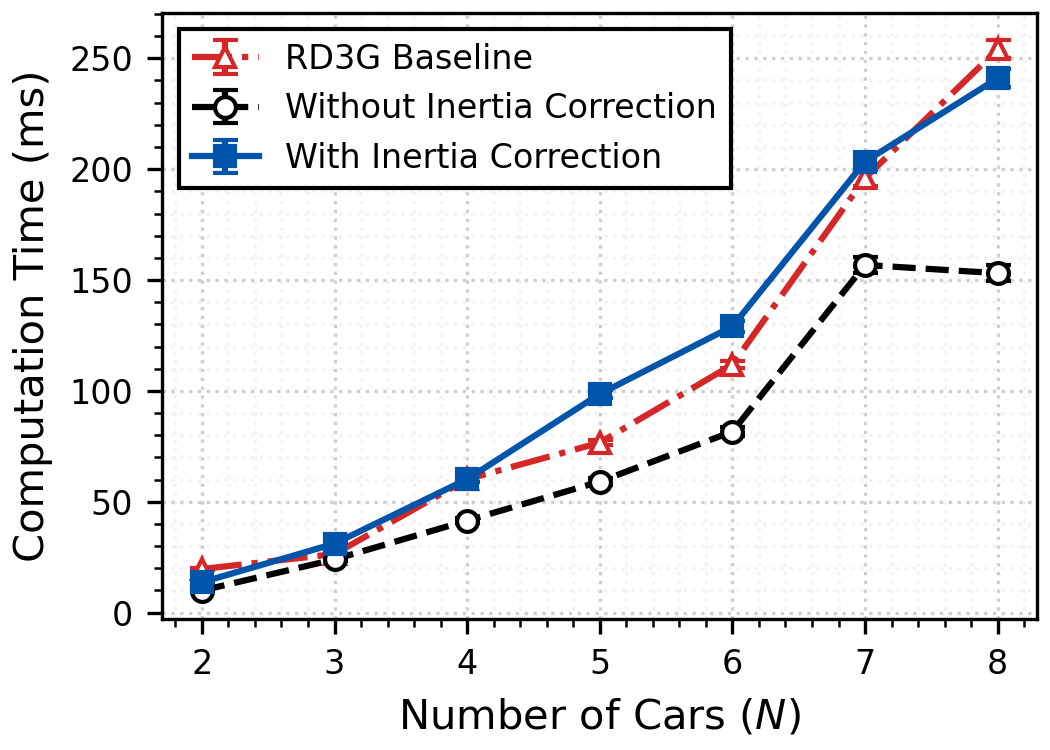
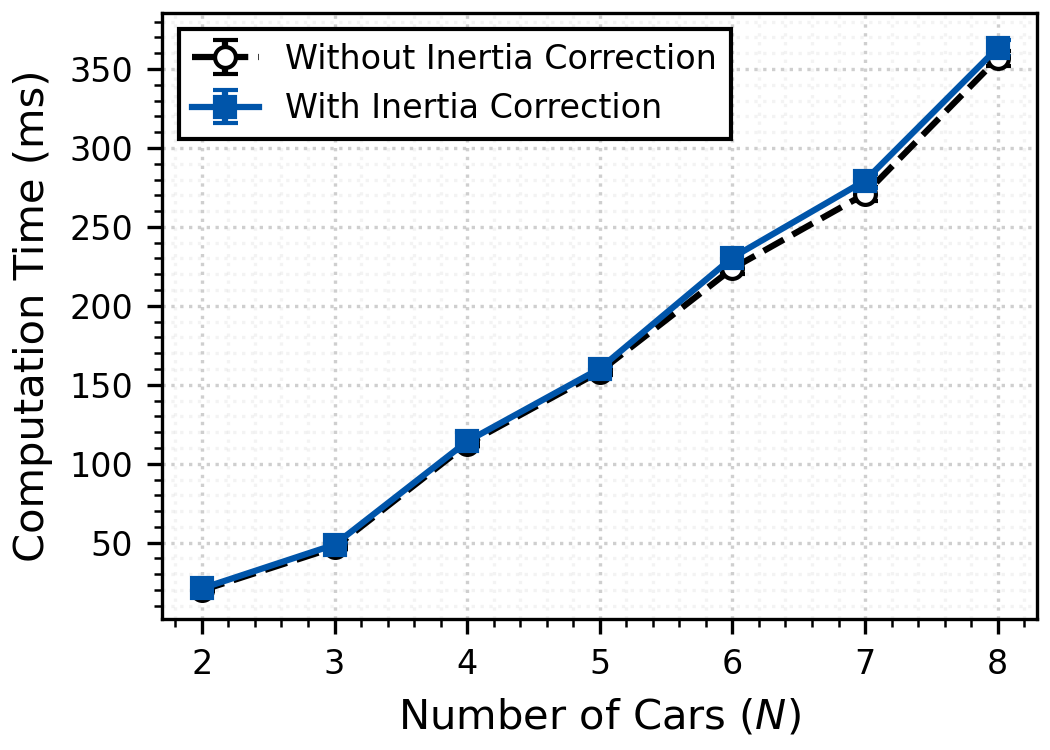
add new results, config intersection game, add initial work on car racing game

diff --git a/plot_scripts/plot_runtime.py b/plot_scripts/plot_runtime.py
@@ -1,38 +1,65 @@
 # With inertia correction (all time in ms)
 import numpy as np
 import matplotlib.pyplot as plt
-in_time_mean = [13.701128959655762, 31.11893653869629, 60.20157337188721,
-                98.62836837768555, 129.09189224243164, 203.43015670776367, 241.0167407989502]
-in_time_var = [0.08905793371070557, 0.4604966592229175, 1.3885599936889998,
-               3.1689017830462034, 7.014893784189009, 11.260259495204172, 16.67792382895923]
-in_conv_mean = [0.96, 0.84, 0.74, 0.62, 0.66, 0.54, 0.5]
-in_conv_var = [0.038400000000000004, 0.1344, 0.19240000000000002,
-               0.23559999999999998, 0.22440000000000002, 0.24840000000000004, 0.25]
-in_opt_mean = [0.68, 0.48, 0.36, 0.24, 0.22, 0.12, 0.12]
-in_opt_var = [0.2176, 0.24959999999999996, 0.23039999999999997,
-              0.18240000000000006, 0.17159999999999997, 0.10559999999999999, 0.1056]
-# Without inertia correction
-noin_time_mean = [9.951138496398926, 24.0029239654541, 41.50583744049072,
-                  59.10581588745117, 81.65302276611328, 156.80120468139648, 153.08618068695068]
-noin_time_var = [0.0640026744537181, 0.4525735902510859, 1.0771046952942243,
-                 2.2773320300247177, 4.87419258854743, 12.633891934981056, 12.586491240343754]
-noin_conv_mean = [0.94, 0.84, 0.86, 0.84, 0.9, 0.66, 0.76]
-noin_conv_var = [0.056400000000000006, 0.13439999999999996,
-                 0.12039999999999995, 0.13439999999999996, 0.09, 0.22440000000000002, 0.1824]
-noin_opt_mean = [0.6, 0.44, 0.36, 0.24, 0.22, 0.1, 0.08]
-noin_opt_var = [0.24000000000000005, 0.24640000000000004, 0.23039999999999997,
-                0.1824, 0.17159999999999997, 0.09, 0.07360000000000001]
-# Original RD3G solver
-ori_time_mean = [19.655447006225586, 26.420068740844727, 60.15329360961914,
-                 76.67149066925049, 111.84639930725098, 196.01680278778076, 254.1122341156006]
-ori_time_var = [0.22356003851846257, 0.11132965713613889, 1.8074582180975085,
-                1.3036110900229914, 2.578892789979363, 11.920197526804737, 17.02268117576059]
-ori_conv_mean = [0.88, 0.86, 0.72, 0.64, 0.68, 0.58, 0.58]
-ori_conv_var = [0.1056, 0.12039999999999998, 0.20160000000000003,
-                0.23039999999999997, 0.2176, 0.24359999999999998, 0.24359999999999998]
-ori_opt_mean = [0.88, 0.86, 0.72, 0.64, 0.68, 0.58, 0.58]
-ori_opt_var = [0.1056, 0.12039999999999998, 0.20160000000000003,
-               0.23039999999999997, 0.2176, 0.24359999999999998, 0.24359999999999998]
+
+# --- Merge game ---
+# in_time_mean = [13.701128959655762, 31.11893653869629, 60.20157337188721,
+#                 98.62836837768555, 129.09189224243164, 203.43015670776367, 241.0167407989502]
+# in_time_var = [0.08905793371070557, 0.4604966592229175, 1.3885599936889998,
+#                3.1689017830462034, 7.014893784189009, 11.260259495204172, 16.67792382895923]
+# in_conv_mean = [0.96, 0.84, 0.74, 0.62, 0.66, 0.54, 0.5]
+# in_conv_var = [0.038400000000000004, 0.1344, 0.19240000000000002,
+#                0.23559999999999998, 0.22440000000000002, 0.24840000000000004, 0.25]
+# in_opt_mean = [0.68, 0.48, 0.36, 0.24, 0.22, 0.12, 0.12]
+# in_opt_var = [0.2176, 0.24959999999999996, 0.23039999999999997,
+#               0.18240000000000006, 0.17159999999999997, 0.10559999999999999, 0.1056]
+# # Without inertia correction
+# noin_time_mean = [9.951138496398926, 24.0029239654541, 41.50583744049072,
+#                   59.10581588745117, 81.65302276611328, 156.80120468139648, 153.08618068695068]
+# noin_time_var = [0.0640026744537181, 0.4525735902510859, 1.0771046952942243,
+#                  2.2773320300247177, 4.87419258854743, 12.633891934981056, 12.586491240343754]
+# noin_conv_mean = [0.94, 0.84, 0.86, 0.84, 0.9, 0.66, 0.76]
+# noin_conv_var = [0.056400000000000006, 0.13439999999999996,
+#                  0.12039999999999995, 0.13439999999999996, 0.09, 0.22440000000000002, 0.1824]
+# noin_opt_mean = [0.6, 0.44, 0.36, 0.24, 0.22, 0.1, 0.08]
+# noin_opt_var = [0.24000000000000005, 0.24640000000000004, 0.23039999999999997,
+#                 0.1824, 0.17159999999999997, 0.09, 0.07360000000000001]
+# # Original RD3G solver
+# ori_time_mean = [19.655447006225586, 26.420068740844727, 60.15329360961914,
+#                  76.67149066925049, 111.84639930725098, 196.01680278778076, 254.1122341156006]
+# ori_time_var = [0.22356003851846257, 0.11132965713613889, 1.8074582180975085,
+#                 1.3036110900229914, 2.578892789979363, 11.920197526804737, 17.02268117576059]
+# ori_conv_mean = [0.88, 0.86, 0.72, 0.64, 0.68, 0.58, 0.58]
+# ori_conv_var = [0.1056, 0.12039999999999998, 0.20160000000000003,
+#                 0.23039999999999997, 0.2176, 0.24359999999999998, 0.24359999999999998]
+# ori_opt_mean = [0.88, 0.86, 0.72, 0.64, 0.68, 0.58, 0.58]
+# ori_opt_var = [0.1056, 0.12039999999999998, 0.20160000000000003,
+#                0.23039999999999997, 0.2176, 0.24359999999999998, 0.24359999999999998]
+
+# --- Intersection Game ---
+# No inertia correction
+noin_time_mean = [19.78468894958496, 46.96185827255249, 112.48016357421875,
+                  158.4071445465088, 223.65604400634766, 270.9224534034729, 356.6710329055786]
+noin_time_var = [0.22962950055216425, 0.9017173539879139, 2.1806401817912047,
+                 3.7673912668391036, 13.823989561434837, 19.252338883549847, 22.039619464214436]
+noin_conv_mean = [0.88, 0.83, 0.58, 0.55, 0.54, 0.57, 0.45]
+noin_conv_var = [0.1056, 0.14110000000000003, 0.24360000000000007,
+                 0.24750000000000003, 0.24839999999999995, 0.24509999999999998, 0.24750000000000003]
+noin_opt_mean = [0.87, 0.82, 0.55, 0.52, 0.49, 0.53, 0.45]
+noin_opt_var = [0.1131, 0.1476, 0.24750000000000003,
+                0.24959999999999996, 0.2499, 0.24909999999999993, 0.24750000000000003]
+
+# With inertia correction
+in_time_mean = [21.021089553833008, 48.70379447937012, 114.14446830749512,
+                160.25827646255493, 230.58194160461426, 279.30853843688965, 363.4367084503174]
+in_time_var = [0.2933674018444435, 1.079661458821283, 2.1565434196554634,
+               3.559684214474436, 12.342151595634185, 19.587298116819827, 24.125354241422112]
+in_conv_mean = [0.88, 0.82, 0.56, 0.54, 0.5, 0.57, 0.46]
+in_conv_var = [0.1056, 0.1476, 0.2464, 0.24839999999999995,
+               0.25, 0.24509999999999996, 0.24839999999999995]
+in_opt_mean = [0.88, 0.82, 0.55, 0.54, 0.49, 0.56, 0.46]
+in_opt_var = [0.1056, 0.1476, 0.24750000000000003,
+              0.24839999999999995, 0.24989999999999996, 0.2464, 0.24839999999999995]
 
 
 car_count = np.array([2, 3, 4, 5, 6, 7, 8])
@@ -44,7 +71,7 @@ in_time_std = np.sqrt(in_time_var)  # Convert Variance to Std Dev
 noin_time_std = np.sqrt(noin_time_var)
 
 # C. Original Solver (Existing Paper)
-ori_time_std = np.sqrt(ori_time_var)
+# ori_time_std = np.sqrt(ori_time_var)
 
 # --- 2. IEEE Formatting Setup ---
 plt.rcParams.update({
@@ -66,14 +93,14 @@ plt.rcParams.update({
 fig, ax = plt.subplots(constrained_layout=True)
 
 # 1. Plot Original (Existing) - Triangle marker, Red/Gray, Dash-dot
-ax.errorbar(car_count, ori_time_mean, yerr=ori_time_std,
-            label='RD3G Baseline',
-            fmt='^-.',           # Triangle_up marker, dash-dot line
-            color='#D62728',     # Muted Red
-            ecolor='#D62728',    # Error bar color
-            capsize=3,           # End caps on error bars
-            markerfacecolor='white',
-            markeredgewidth=1.0)
+# ax.errorbar(car_count, ori_time_mean, yerr=ori_time_std,
+#             label='RD3G Baseline',
+#             fmt='^-.',           # Triangle_up marker, dash-dot line
+#             color='#D62728',     # Muted Red
+#             ecolor='#D62728',    # Error bar color
+#             capsize=3,           # End caps on error bars
+#             markerfacecolor='white',
+#             markeredgewidth=1.0)
 
 # 2. Plot Baseline (No Inertia) - Circle marker, Black, Dashed
 ax.errorbar(car_count, noin_time_mean, yerr=noin_time_std,

diff --git a/rd3g/games/intersection_casadi.py b/rd3g/games/intersection_casadi.py
@@ -36,7 +36,7 @@ class IntersectionCasadiConfig(CasadiGameConfig):
     hori_lanes: int = 2  # Number of horizontal lanes
     vert_lanes: int = 3  # Number of vertical lanes
 
-    collision_radius: float = 1.4
+    collision_radius: float = 2.0  # 1.4
     """ Minimum distance between two cars"""
 
     x0: Any = None
@@ -348,7 +348,7 @@ class IntersectionCasadi(BaseGame):
     def f(self, x_k_i, u_k_i, i_onehot):
         """ Dynamics function x_{t+1} = f(x_t,u,i)
         Args:
-            x_k_i: (n,1) State for agent i
+            x_k_i: (n,1) State for agent i [x,y,v,theta]
             u_k_i: (m,1) Control for agent i
             i_onehot: agent id, in one-hot encoding (N), i.e. i=1,N=4 -> [0,1,0,0], column vector
         Return:
@@ -372,13 +372,13 @@ class IntersectionCasadi(BaseGame):
 
         # RK4 Integration
         k1 = dynamics(x_k_i, u_k_i)
-        k2 = dynamics(x_k_i + 0.5 * dt * k1, u_k_i)
-        k3 = dynamics(x_k_i + 0.5 * dt * k2, u_k_i)
-        k4 = dynamics(x_k_i + dt * k3, u_k_i)
-        val = x_k_i + (dt / 6.0) * (k1 + 2*k2 + 2*k3 + k4)
+        # k2 = dynamics(x_k_i + 0.5 * dt * k1, u_k_i)
+        # k3 = dynamics(x_k_i + 0.5 * dt * k2, u_k_i)
+        # k4 = dynamics(x_k_i + dt * k3, u_k_i)
+        # val = x_k_i + (dt / 6.0) * (k1 + 2*k2 + 2*k3 + k4)
 
         # Euler
-        # val = x_k_i + dx * dt
+        val = x_k_i + k1 * dt
         return val
 
     def h(self, x, u):
@@ -424,23 +424,26 @@ class IntersectionCasadi(BaseGame):
         assert x_i.shape == (self.n, 1)
         assert x_j.shape == (self.n, 1)
         d = self.config.get_param('collision_radius')
-        offset = 0.7
-        f1x = x_i[0, 0] + offset * cas.cos(x_i[2, 0])
-        f1y = x_i[1, 0] + offset * cas.sin(x_i[2, 0])
-        f2x = x_j[0, 0] + offset * cas.cos(x_j[2, 0])
-        f2y = x_j[1, 0] + offset * cas.sin(x_j[2, 0])
-        r1x = x_i[0, 0] - offset * cas.cos(x_i[2, 0])
-        r1y = x_i[1, 0] - offset * cas.sin(x_i[2, 0])
-        r2x = x_j[0, 0] - offset * cas.cos(x_j[2, 0])
-        r2y = x_j[1, 0] - offset * cas.sin(x_j[2, 0])
+        val = -((x_i[0, 0] - x_j[0, 0]) / 1.0)**2 - (
+            x_i[1, 0] - x_j[1, 0])**2 + d**2
+        # Need to look into this double circle model
+        # offset = 0.7
+        # f1x = x_i[0, 0] + offset * cas.cos(x_i[3, 0])
+        # f1y = x_i[1, 0] + offset * cas.sin(x_i[3, 0])
+        # f2x = x_j[0, 0] + offset * cas.cos(x_j[3, 0])
+        # f2y = x_j[1, 0] + offset * cas.sin(x_j[3, 0])
+        # r1x = x_i[0, 0] - offset * cas.cos(x_i[3, 0])
+        # r1y = x_i[1, 0] - offset * cas.sin(x_i[3, 0])
+        # r2x = x_j[0, 0] - offset * cas.cos(x_j[3, 0])
+        # r2y = x_j[1, 0] - offset * cas.sin(x_j[3, 0])
 
-        FF = -(f1x - f2x)**2 - (f1y - f2y)**2 + d**2
-        FR = -(f1x - r2x)**2 - (f1y - r2y)**2 + d**2
-        RF = -(r1x - f2x)**2 - (r1y - f2y)**2 + d**2
-        RR = -(r1x - r2x)**2 - (r1y - r2y)**2 + d**2
-        vals = cas.vertcat(FF, FR, RF, RR)
-
-        val = cas.mmax(vals)
+        # FF = -(f1x - f2x)**2 - (f1y - f2y)**2 + d**2
+        # FR = -(f1x - r2x)**2 - (f1y - r2y)**2 + d**2
+        # RF = -(r1x - f2x)**2 - (r1y - f2y)**2 + d**2
+        # RR = -(r1x - r2x)**2 - (r1y - r2y)**2 + d**2
+        # vals = cas.vertcat(FF, FR, RF, RR)
+        # alpha = 10.0  # "sharpness" of the softmax
+        # val = (1.0 / alpha) * cas.log(cas.sum1(cas.exp(alpha * vals)))
         return val
 
 
@@ -481,7 +484,7 @@ def create_random_game(car_count=3, horizon=20):
     J_Qr_diag_vec = []
 
     for i in range(hori_lane_n):
-        offset = - i*10 - np.random.random()
+        offset = - i*4.0 - np.random.random()  # 5.4
         v = 2.0+np.random.random()
         x0 = make_x0(True, np.random.randint(0, default.hori_lanes), offset, v, 0.0)
         x0_vec.append(x0)
@@ -489,7 +492,7 @@ def create_random_game(car_count=3, horizon=20):
         J_Qr_diag_vec.append(np.array([0, 0.1, 0.01, 10.0]))
 
     for i in range(verti_lane_n):
-        offset = - i*10 - 4 - np.random.random()
+        offset = - i*4.0 - 2.7 - np.random.random()
         v = 2.0+np.random.random()
         x0 = make_x0(False, np.random.randint(0, default.vert_lanes), offset, v, 0.0)
         x0_vec.append(x0)

diff --git a/rd3g/games/car_racing_casadi.py b/rd3g/games/car_racing_casadi.py
@@ -1,0 +1,84 @@
+""" Car Racing game, CasADi version """
+import os
+import logging
+from typing import Any
+from math import degrees
+from dataclasses import dataclass
+
+import numpy as np
+from scipy.ndimage import rotate
+import matplotlib.pyplot as plt
+import matplotlib.image as mpimg
+from matplotlib.animation import FuncAnimation
+import casadi as cas
+
+from buzzracer.tracks.curvilinear_track import CurvilinearTrack
+
+from rd3g.utilities.util import BASEDIR, resolve_logname
+from rd3g.core.base_casadi_game import CasadiGameConfig
+from rd3g.core.base_jax_game import BaseGame
+
+logger = logging.getLogger(__name__)
+logger.setLevel(logging.INFO)
+
+
+@dataclass(frozen=True)
+class CarRacingCasadiConfig(CasadiGameConfig):
+    """ Base Class for game configuration. """
+    T: int = 0
+    dt: float = 0.1
+    N: int = 3
+    n: int = 4
+    m: int = 2
+    n_hi: int = 0  # Total number of constraints for EACH agent, e.g. pairwise collision only: N*T
+
+    collision_radius: float = 2.0  # TODO use BuzzRacer size
+    """ Minimum distance between two cars"""
+
+    x0: Any = None
+    """ Initial state for all agents, dim: (n,N)"""
+    J_R: Any = None
+    """ Cost matrix for control effort dim: (m,m)"""
+
+    def __post_init__(self):
+        assert self.x0.shape == (self.n, self.N), (
+            'Incorrect self.x0 dimension, '
+            f'should be {(self.n, self.N)}, but got {self.x0.shape}')
+        assert self.J_R.shape == (self.m, self.m)
+        return super().__post_init__()
+
+
+class CarRacingCasadi(BaseGame):
+    ''' Car Racing Game with Kinematic Bicycle Model, with CasADi
+        u = [steering, throttle]
+        x = [x,y,v,theta]: x: upwards, y:right, theta: ccw (right hand coord)
+        agent count: N, time step: 1..T+1
+        X (game state) = concatenated state, first by agent, then by time)
+        state p of agent i at time k: X[k,i,p] or X.flatten()[k*N*m + i*m + p]
+        U (control) = concatenated control  dim: T*N*m
+        control p of agent i at time k: U[k,i,p] or U.flatten()[k*N*m + i*m + p]
+        x_i_k: 1..T, T*N*n  NOTE starts from 1
+        u_i_k: 0..T-1, T*N*m
+        lamda_i_k: 0..T-1 T*N*n
+        mu_k_i_j: 1..T T*N*N NOTE starts from 1
+    '''
+
+    def __init__(self, config: CarRacingCasadiConfig, track: CurvilinearTrack):
+        super().__init__(config)
+
+        # n_hi is a new concept
+        self.n_hi = config.n_hi
+        # bounds for visualization
+        self.visual_x_lim = [-10, 10]
+        self.visual_y_lim = [-10, 10]
+
+        self.car_scale = 0.0045 / 2
+        color_names = [
+            'purple', 'yellow', 'red', 'green', 'orange', 'pink', 'cyan',
+            'hot_pink'
+        ]
+        self.car_img_vec = [
+            mpimg.imread(
+                os.path.join(BASEDIR, 'rd3g', 'resources', f'porsche_{color}.png'))
+            for color in color_names
+        ]

diff --git a/plot_scripts/plot_opt_ratio.py b/plot_scripts/plot_opt_ratio.py
@@ -3,23 +3,30 @@ import numpy as np
 
 car_count = [2, 3, 4, 5, 6, 7, 8]
 # Convergence and optimality rate with inertia correction
-test_conv = [0.96, 0.84, 0.74, 0.62, 0.66, 0.54, 0.5]
-test_opt = [0.68, 0.48, 0.36, 0.24, 0.22, 0.12, 0.12]
+# test_conv = [0.96, 0.84, 0.74, 0.62, 0.66, 0.54, 0.5] # merge
+# test_opt = [0.68, 0.48, 0.36, 0.24, 0.22, 0.12, 0.12] # merge
+
+test_conv = [0.88, 0.82, 0.56, 0.54, 0.5, 0.57, 0.46]  # intersection
+test_opt = [0.88, 0.82, 0.55, 0.54, 0.49, 0.56, 0.46]  # intersection
+
 # Show this
 test_opt_ratio = [test_opt[i]/test_conv[i] for i in range(len(test_conv))]
 print(f'{test_opt_ratio=}')
 test_ratio = np.array(test_opt_ratio)
 
 # Convergence and optimality rate without inertia correction
-base_conv = [0.94, 0.84, 0.86, 0.84, 0.9, 0.66, 0.76]
-base_opt = [0.6, 0.44, 0.36, 0.24, 0.22, 0.1, 0.08]
+# base_conv = [0.94, 0.84, 0.86, 0.84, 0.9, 0.66, 0.76]  # merge
+# base_opt = [0.6, 0.44, 0.36, 0.24, 0.22, 0.1, 0.08]  # merge
+base_conv = [0.88, 0.83, 0.58, 0.55, 0.54, 0.57, 0.45]  # intersection
+base_opt = [0.87, 0.82, 0.55, 0.52, 0.49, 0.53, 0.45]  # intersection
+
 base_opt_ratio = [base_opt[i]/base_conv[i] for i in range(len(base_conv))]
 print(f'{base_opt_ratio=}')
 base_ratio = np.array(base_opt_ratio)
 
 # RD3G doesn't have notion of optimality, so always 1
-ori_conv = [0.88, 0.86, 0.72, 0.64, 0.68, 0.58, 0.58]
-ori_opt = [0.88, 0.86, 0.72, 0.64, 0.68, 0.58, 0.58]
+ori_conv = [0.88, 0.86, 0.72, 0.64, 0.68, 0.58, 0.58]  # merge
+ori_opt = [0.88, 0.86, 0.72, 0.64, 0.68, 0.58, 0.58]  # merge
 ori_opt_ratio = [ori_opt[i]/ori_conv[i] for i in range(len(ori_conv))]
 ori_ratio = np.array(ori_opt_ratio)
 
@@ -74,6 +81,7 @@ ax.plot(car_count, test_ratio,
 # --- 4. Styling & labeling ---
 ax.set_xlabel('Number of Cars ($N$)')
 ax.set_ylabel(r'Optimality Ratio ($\eta_{opt} / \eta_{conv}$)')
+ax.set_ybound(lower=0.5, upper=1.1)
 
 # Set integer ticks for x-axis since car counts are discrete
 ax.set_xticks(car_count)

diff --git a/scripts/benchmark_intersection.py b/scripts/benchmark_intersection.py
@@ -26,7 +26,7 @@ for car_count in range(2, 9):
     converge_vec = []
     optimal_vec = []
     dt_vec = []
-    for i in range(50):
+    for i in range(100):
         np.random.seed(i)
         game = create_random_game(car_count=car_count, horizon=20)
         solver_config = RD3GCasadiConfig(inertia_correction=False)
@@ -82,7 +82,7 @@ print(f'{car_optimal_var_vec=}')
 # check solution iteration count
 
 # 1. Filter the vector for converged solutions and extract the iteration counts
-converged_iterations = [sol.iterations for sol]
+converged_iterations = [sol.iterations for sol in sol_vec]
 
 # 2. Plot the histogram
 plt.figure(figsize=(8, 5))

diff --git a/scripts/solve_intersection.py b/scripts/solve_intersection.py
@@ -14,7 +14,7 @@ logger = logging.getLogger(__name__)
 logger.setLevel(logging.INFO)
 
 i = 35
-np.random.seed(i)
+np.random.seed()
 cpp = False
 logger.info('Creating game...')
 game = create_random_game(car_count=8, horizon=20)

diff --git a/scripts/generate_casadi_code.py b/scripts/generate_casadi_code.py
@@ -30,7 +30,6 @@ def codegen_intersection(car_count, horizon):
 
 
 if __name__ == "__main__":
-    codegen_intersection(8, 20)
     for T in [20]:
         for i in range(2, 9):
             codegen_merge(i, T)
